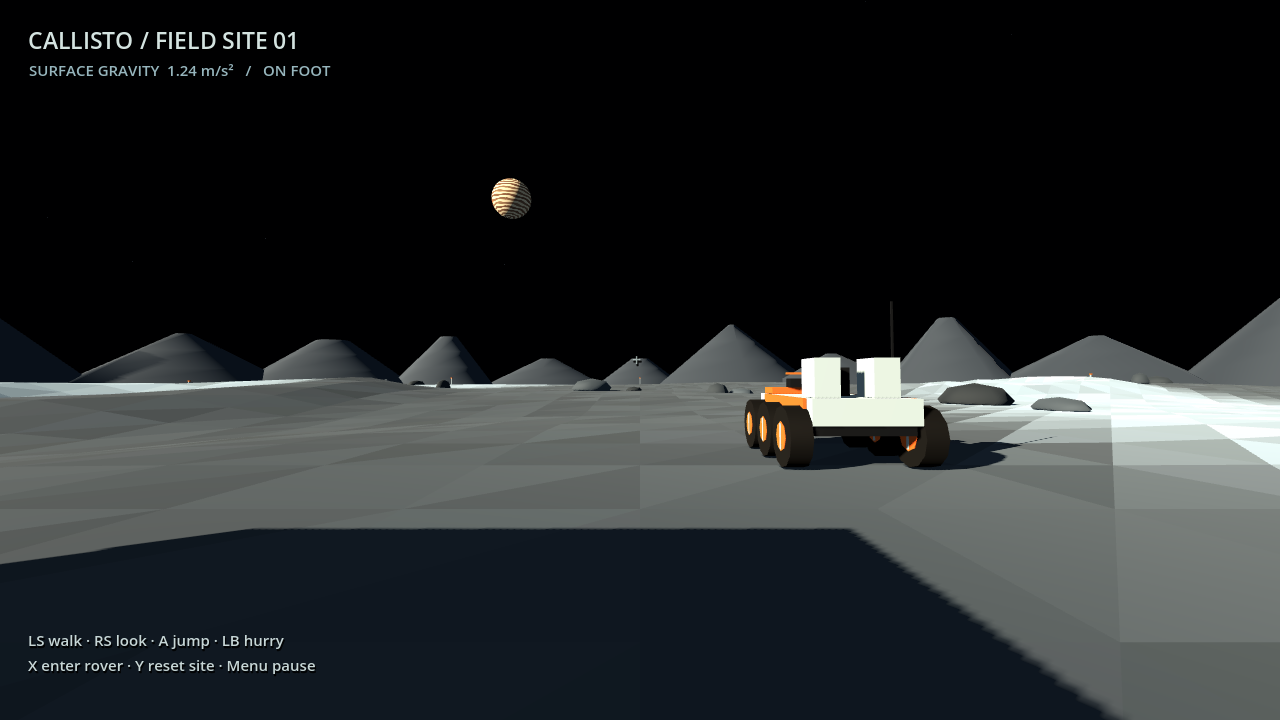
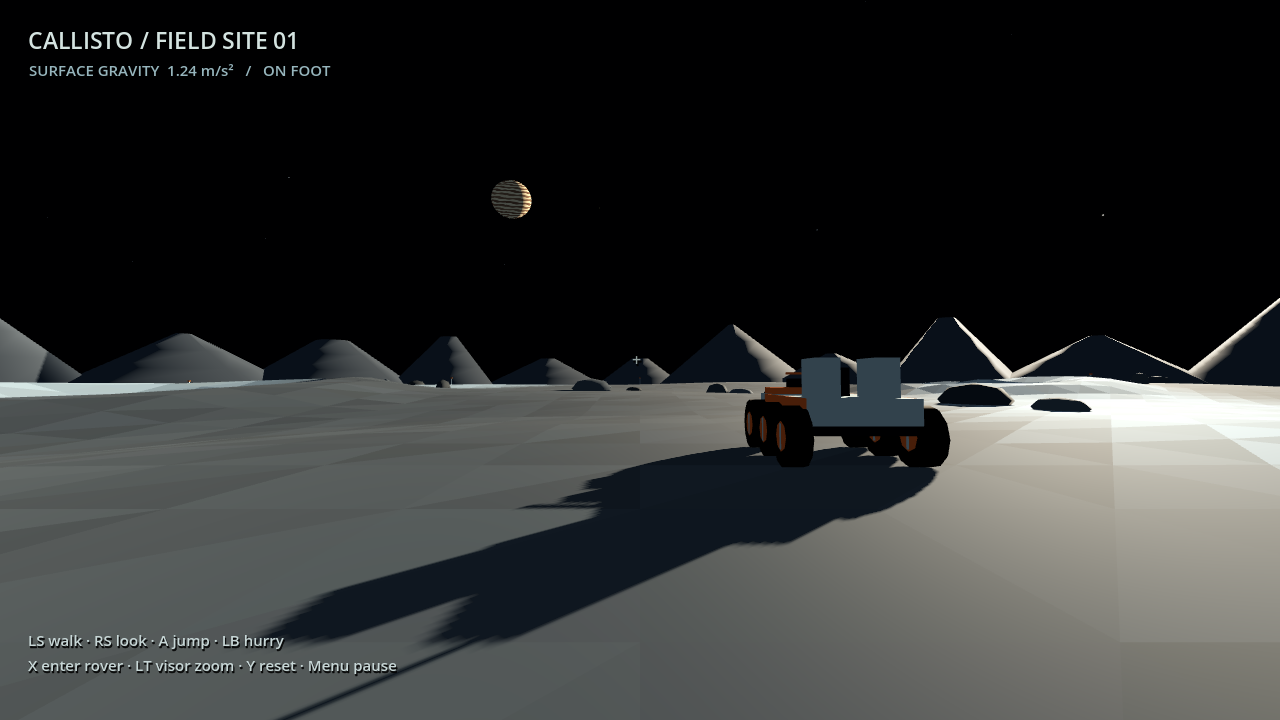
Preserve jump momentum and scale the Jovian sky accurately

diff --git a/README.md b/README.md
@@ -8,9 +8,9 @@ This is a separate project from the working TypeScript cruise deckbuilder in `..
 
 ## Play on Windows
 
-Double-click **`Play.cmd`**. It launches the exported game when `builds/windows/CallistoPlayground.exe` exists, or finds a local Godot installation and runs the source. This workspace's existing Spiritbound/Range Club Godot installation is also detected.
+Double-click **`Play.cmd`**. It launches the current exported game, or finds a local Godot installation and runs the source. This workspace's existing Spiritbound/Range Club Godot installation is also detected.
 
-You can run **`builds/windows/CallistoPlayground.exe`** directly without the editor. Keep its adjacent `.pck` file with it. The generated build is ignored by Git.
+You can run **`builds/windows/CallistoPlayground-v0.2.exe`** directly without the editor. Keep its adjacent `.pck` file with it. The generated build is ignored by Git. The earlier executable remains available so an ongoing playtest is not interrupted; `Play.cmd` prefers v0.2. Close the old window and relaunch to use updated controls and sky.
 
 To edit the prototype, import `project.godot` in **Godot 4.7.2 Standard** and press **F5**. The Compatibility renderer requires OpenGL 3.3; no plugins or downloaded assets are needed.
 
@@ -25,7 +25,7 @@ Use a standard Xbox-style gamepad. Hot-plugging works through Godot's controller
 | A | Jump | — |
 | X | Enter nearby rover | Exit and park rover |
 | LB | Move faster while held | — |
-| RT / LT | — | Forward / reverse, with analog throttle |
+| RT / LT | LT: hold visor zoom | Forward / reverse, with analog throttle |
 | B | — | Brake |
 | Y | Reset the landing site | Reset the landing site |
 | Menu / Start | Pause / resume | Pause / resume |
@@ -34,13 +34,13 @@ The sticks have deadzones and the look stick uses a gentle response curve for fi
 
 ## Keyboard and mouse
 
-WASD moves or drives; mouse looks. Space jumps on foot and brakes in the rover. E enters/exits. Shift moves faster on foot. R resets. Esc pauses or resumes; clicking the window also resumes after mouse release.
+WASD moves or drives; mouse looks. Space jumps on foot and brakes in the rover. E enters/exits. Shift moves faster on foot. Hold the right mouse button for visor zoom. R resets. Esc pauses or resumes; clicking the window also resumes after mouse release.
 
 ## What's in the playground
 
 - A fixed 240 m terrain mesh with shallow craters, rocky obstacles, ice-colored facets, distant rim silhouettes, a small landing module, and survey markers.
-- Black sky, a distant Sun, and a procedural banded Jupiter fixed in the sky above the horizon. Jupiter is approximately 4.3° across; it is deliberately not a planet filling half the sky.
-- Astronaut gravity of **1.24 m/s²**. A modest 1.65 m/s jump gives roughly 1.1 m of rise and 2.7 seconds of flight on flat ground. Ground snapping, a short jump buffer, and air control make it manageable.
+- Black sky with Jupiter, the Sun, Io, Europa, and Ganymede. Radii and observer distances determine their apparent sizes. Jupiter is approximately 4.35° across; the small solar disk has a little optical glare so it is findable. Their static arrangement is a chosen circular-orbit approximation, not an ephemeris for a real date.
+- Astronaut gravity of **1.24 m/s²**. A modest 1.65 m/s jump gives roughly 1.1 m of rise and 2.7 seconds of flight on flat ground. Jumping preserves horizontal momentum: no midair steering or braking. Ground contact restores control. You can still look around during flight.
 - An arcade rover with six visual wheels, a cockpit view, analog throttle, steering, brakes, ground collision, and visual chassis tilt. Top speed is 11 m/s; reverse is capped at 4.5 m/s. Its collider stays upright; there is no simulated suspension or wheel traction.
 - Exits check several sides and refuse blocked or unsafe steps. Boundary colliders keep both bodies on the finite map; reset provides immediate recovery.
 
@@ -57,9 +57,9 @@ The terrain is an authored mathematical playground, not a reconstruction of Call
 
 Set `CALLISTO_GODOT` or pass `-GodotPath 'C:\path\to\godot.exe'` to choose another compatible engine. Windows export needs matching Godot export templates. Captures require a graphical renderer and write ignored PNGs to `artifacts/`.
 
-Automated checks run the actual 3D collision world and simulated keyboard/gamepad events. They cover landing, walking/stopping, jump/gravity, rover range and seating, trigger driving/reverse, steering/braking, stick drift/look, pause/reset, blocked exits, terrain boundaries, crater collision, and fall recovery. They do not establish physical controller compatibility or perceived handling comfort. Those require manual playtesting.
+Automated checks run the actual 3D collision world and simulated keyboard/gamepad events. They cover landing, walking/stopping, jump/gravity and conserved horizontal momentum, rover range and seating, trigger driving/reverse, steering/braking, stick drift/look, visor zoom, pause/reset, blocked exits, terrain boundaries, crater collision, fall recovery, and astronomical apparent sizes. They do not establish physical controller compatibility or perceived handling comfort. Those require manual playtesting.
 
-On October 13, 2026, all **42 checks** passed in both source and exported Windows-pack runs. Godot import/export and a Windows executable startup check completed without script/runtime errors. Four actual rendered views were inspected (on foot, approaching the rover, cockpit, and after exit), and the exported game's native window was inspected. Physical gamepad feel remains a manual playtest item.
+On October 13, 2026, all **54 checks** passed in both source and exported Windows-pack runs. Godot import/export and a Windows executable startup check completed without script/runtime errors. Actual rendered views were inspected on foot, approaching the rover, in the cockpit, after exit, and through the visor at Jupiter, the Sun, and Ganymede. The original exported game's native window was inspected. Physical gamepad feel remains a manual playtest item.
 
 ## Code map
 
@@ -71,7 +71,9 @@ On October 13, 2026, all **42 checks** passed in both source and exported Window
 | `game/rover.gd` | Primitive rover model and arcade movement |
 | `game/controls.gd` | Keyboard and Xbox-style input mappings |
 | `game/hud.gd` | Minimal controls, interaction prompts, pause overlay |
+| `game/sky.gd` | Physical angular sizes, static Sun/moon arrangement, sky meshes |
 | `game/jupiter.gdshader` | Procedural cloud bands |
+| `game/sun_glare.gdshader` | Small optical glare around the solar disk |
 | `tests/` | Physics/input checks and rendered view captures |
 
 Movement uses Godot's [CharacterBody3D](https://docs.godotengine.org/en/stable/classes/class_characterbody3d.html); gamepad mappings use its [controller input support](https://docs.godotengine.org/en/stable/tutorials/inputs/controllers_gamepads_joysticks.html).

diff --git a/docs/sky-scale.md b/docs/sky-scale.md
@@ -1,0 +1,25 @@
+# How large should Jupiter look from Callisto?
+
+For a spherical body of radius R at observer-to-center distance d:
+
+`angular diameter = 2 × asin(R / d)`
+
+JPL lists Jupiter's equatorial radius as **71,492 km** and Callisto's mean orbital semimajor axis as **1,882,700 km**. This gives an approximate equatorial angular diameter of **4.35245°**. The code also includes Callisto's 2,410.3 km surface offset for the chosen site and uses an oblate Jupiter mesh. The small differences due to orbital eccentricity, surface location, and polar flattening do not turn it into a planet covering half the sky.
+
+At 720 pixels tall with a 75° vertical field of view, that diameter projects to approximately **36 pixels**. At the held 20° visor field of view it projects to approximately **155 pixels**. Both views depict the same physical apparent angle: the visor narrows the camera's field of view.
+
+`pixel diameter = image height × tan(angular diameter / 2) / tan(vertical FOV / 2)`
+
+The Sun's approximate radius of 696,000 km at a representative Jupiter–Sun distance of 778 million km gives **0.1025°** across, less than one pixel in the normal 720p view. A small artistic optical glare helps identify it; that glare does not change the disk's angular size. Its direction is to the right of Jupiter and also controls the directional light.
+
+Io, Europa, and Ganymede use the same size calculation, with their observer distances computed from a simple coplanar circular-orbit arrangement. They appear as very small disks/points, more readable through the visor. The visor names the sky body near the center of the view, and hides its crosshair so it does not cover small disks. The chosen phases are representative scene parameters, not predictions of their positions on October 13, 2026. The scene does not simulate orbital motion, eclipses, a complete atmospheric photometric model, or a live ephemeris.
+
+## Sources
+
+- [JPL planetary physical parameters](https://ssd.jpl.nasa.gov/planets/phys_par.html): Jupiter equatorial/mean radii. An approximate polar radius of 66,853 km follows from the oblate spheroid volume relation using those two radii.
+- [JPL satellite mean orbital elements](https://ssd.jpl.nasa.gov/sats/elem/): Callisto and the inner Galilean moon orbit sizes.
+- [JPL satellite physical parameters](https://ssd.jpl.nasa.gov/sats/phys_par/): Callisto, Io, Europa, and Ganymede mean radii.
+- [NASA solar-system scale overview](https://science.nasa.gov/learning-resources/how-big-is-the-solar-system/): representative Jupiter–Sun distance.
+- [NASA Astrobiology Math](https://www.nasa.gov/wp-content/uploads/2013/05/637832main_astrobiology_math.pdf): approximate solar radius used for this prototype.
+
+Exact sky configurations for a selected time/site would require an ephemeris such as [JPL Horizons](https://ssd.jpl.nasa.gov/sats/orbits.html). That is outside this static playground's scope.
